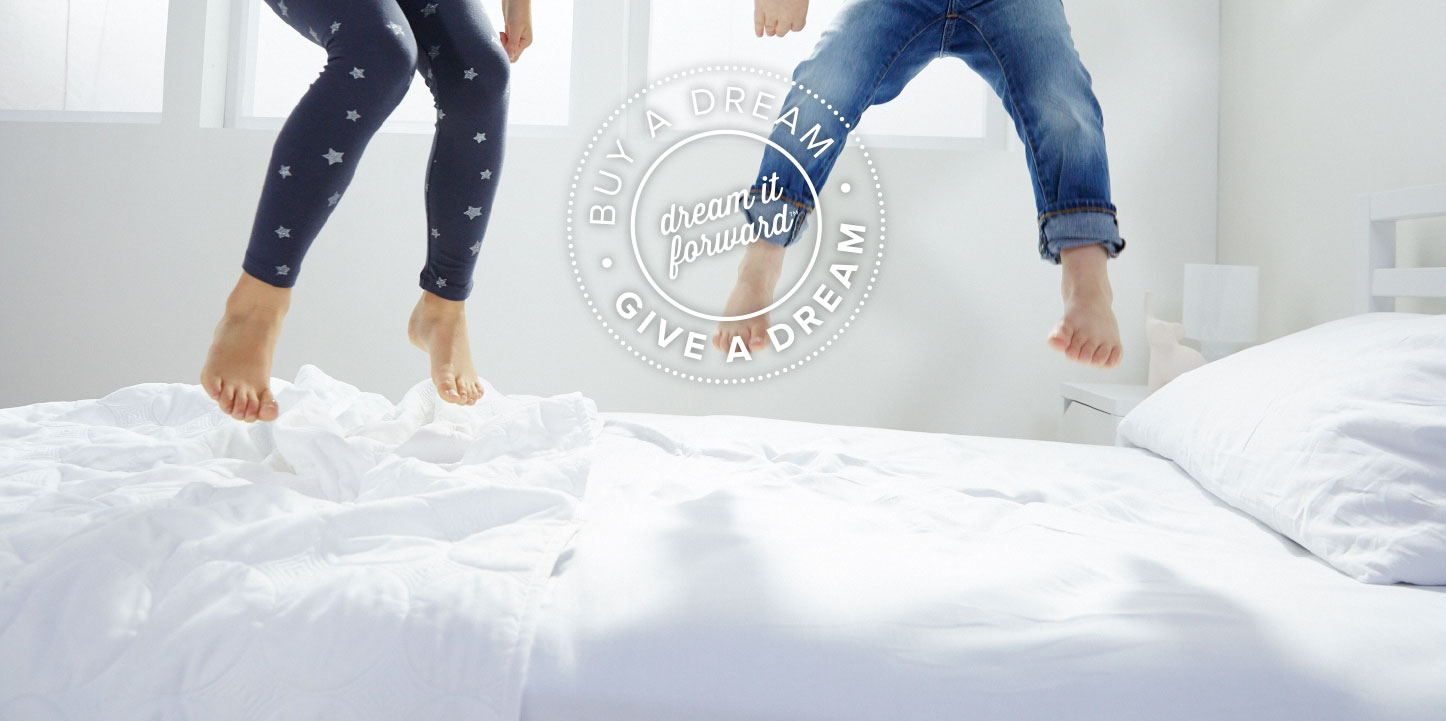
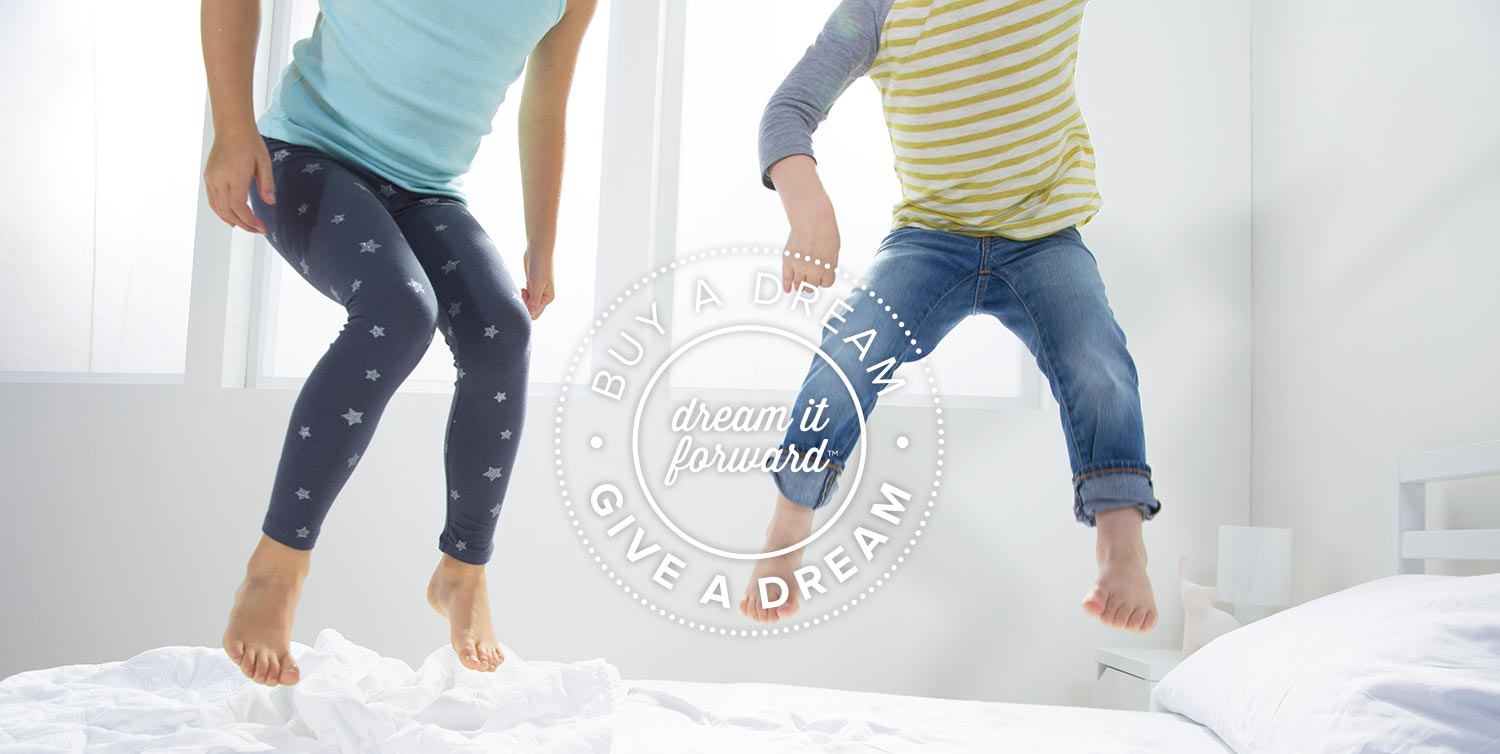
new image bed jumping kids image on shop page. also added code and css to make pinterest-friendly images on home and shop.

diff --git a/themes/the-dream-bed/css/custom.css b/themes/the-dream-bed/css/custom.css
@@ -141,6 +141,19 @@ input[type="file"] > input[type="button"]::-moz-focus-inner {
 	z-index: 1000;
 }
 
+/* pinterest images */
+
+.pin {
+	position: absolute !important;
+	clip: rect(1px 1px 1px 1px); /* IE6, IE7 */
+	clip: rect(1px, 1px, 1px, 1px);
+	padding: 0 !important;
+	border: 0 !important;
+	height: 1px !important; 
+	width: 1px !important; 
+	overflow: hidden;
+}
+
 /* begin carousel customization */
 
 .slider-size {
@@ -590,7 +603,7 @@ input[type="file"] > input[type="button"]::-moz-focus-inner {
 .jump-on-bed {
 	height: 534px;
 	background-image: url(../images/photos/kids-jumping-on-dream-bed.jpg);
-	background-position: top center;	
+	background-position: bottom center;	
 	position: relative; 
 	width: 100%;
 	padding: 0;

diff --git a/themes/the-dream-bed/page-home.php b/themes/the-dream-bed/page-home.php
@@ -6,6 +6,7 @@
 	<div class="main-text">
 		<h1>Free shipping and a no nightmare guarantee</h1>
 		<div><a href="<?php bloginfo('url'); ?>/shop/" class="btn btn-dream btn-lg" role="button">Shop Now</a></div>
+		<img class="pin" src="<?php bloginfo("template_url"); ?>/images/photos/feet-hanging-off-bed-detail.jpg" data-pin-description="The Dream Bed: Free shipping and a no nightmare guarantee." alt="">
 	</div>
 </div>
 
@@ -40,6 +41,7 @@
 									<h1><?php echo $title; ?></h1> 
 									<h2><?php echo $desc; ?></h2>
 									<p><a href="<?php echo $link; ?>" class="btn btn-dream btn-lg" role="button"><?php echo $btn_title; ?></a></p>
+									<img class="pin" src="<?php echo $img; ?>" data-pin-description="The Dream Bed: 180 night in home trial, free delivery, two options offering optimum support & comfort." alt="">
 								</div>
 							</div>
 						</div>
@@ -95,6 +97,7 @@ jQuery(document).ready(function($){
 					<h2>Free 2-day <br>
 						delivery!</h2>
 					<p><a href="<?php bloginfo('url'); ?>/shop" class="btn btn-dream" role="button">Shop Now</a></p>
+					<img class="pin" src="<?php bloginfo("template_url"); ?>/images/photos/blue-box-on-stoop.jpg" data-pin-description="The Dream Bed: Free two day delivery, right to your door!" alt="">
 				</div>
 			</div>
 			<div class="col-sm-6 alt-side-image home-middle2">
@@ -102,6 +105,7 @@ jQuery(document).ready(function($){
 					<h2>No nightmare<br>
 						180 night guarantee</h2>
 					<p><a href="<?php bloginfo('url'); ?>/design" class="btn btn-dream" role="button">See Design</a></p>
+					<img class="pin" src="<?php bloginfo("template_url"); ?>/images/photos/girl-on-pink-bed.jpg" data-pin-description="The Dream Bed: The mattress that's designed for optimal support, constant comfort, and an unobtrusive footprint." alt="">
 				</div>
 			</div>
 		</div>
@@ -112,7 +116,7 @@ jQuery(document).ready(function($){
 		<div class="row">
 			<div class="col-sm-12 center-block text-center home-bed-options">
 				<h2>The Dream Bed comes in two dreamy choices</h2>
-				<p><img src="<?php bloginfo("template_url"); ?>/images/photos/two-dreamy-options-man.jpg" alt="A gentleman demonstrates the difficulty of choosing between the two Dream Bed options." class="img-responsive center-block"></p>
+				<p><img src="<?php bloginfo("template_url"); ?>/images/photos/two-dreamy-options-man.jpg" alt="Two dreamy mattresses in foam, latex and memory foam." data-pin-description="The Dream Bed: Two dreamy mattresses in foam, latex and memory foam." class="img-responsive center-block"></p>
 				<div class="center-block hidden-xs"> 
 					<a href="<?php bloginfo('url'); ?>/shop/" class="btn btn-dream" role="button">Shop The Dream Bed</a>
 				</div>
@@ -130,11 +134,11 @@ jQuery(document).ready(function($){
 			<div class="col-sm-8 col-sm-offset-2 col-xs-12">
 				<h1>For every Dream Bed purchased a bed is donated to someone in need. #dreamitforward</h1>
 				<div><a href="<?php bloginfo('url'); ?>/giving/" class="btn btn-dream btn-lg" role="button">See How We Give</a></div>
+				<img class="pin" src="<?php bloginfo("template_url"); ?>/images/photos/dream-it-fwd-mattress-delivery.jpg" data-pin-description="The Dream Bed: For every Dream Bed purchased a bed is donated to someone in need. #dreamitforward" alt="">
 			</div>
 		</div>
 	</div>
 </div>
-
 <div class="container">
 	<div class="row">
 		<div class="same">
@@ -161,7 +165,6 @@ jQuery(document).ready(function($){
 		</div>
 	</div>
 </div>
-
+<img class="pin" src="<?php bloginfo("template_url"); ?>/images/photos/girl-crawling-in-box-with-dream-pillow.jpg" data-pin-description="The Dream Bed: Unbox a better tomorrow with our giving program." alt="">
 </div>
-
 <?php get_footer(); ?>

diff --git a/themes/the-dream-bed/woocommerce/archive-product.php b/themes/the-dream-bed/woocommerce/archive-product.php
@@ -5,6 +5,7 @@
 		<div class="row">
 			<div class="col-sm-8 col-sm-offset-2 col-xs-12">
 				<h1>Two dreamy choices</h1>
+				<img class="pin" src="<?php bloginfo("template_url"); ?>/images/photos/two-dreamy-options-man.jpg" data-pin-description="The Dream Bed: Two dreamy mattresses in foam, latex and memory foam." alt="">
 			</div>
 		</div>
 	</div>
@@ -62,7 +63,7 @@ if ($product_query->have_posts()) {
 					
 				</div>
 				<div class="product-image-cta">
-					<a href="'. $link .'"><img src="' . $img_url .'" class="product-img"></a>
+					<a href="'. $link .'"><img src="' . $img_url .'" class="product-img" alt="'. $title .'" data-pin-description="The Dream Bed: '. $title .'"></a>
 					<div class="product-cta"><a href="'. $link .'" class="btn btn-dream" role="button">Shop '. $title .'</a></div>
 				</div>
 			  </div></div>';
@@ -85,6 +86,7 @@ wp_reset_postdata();
 <div class="jump-on-bed">
 	<div class="jump-on-bed-cta">
 		<a href="<?php bloginfo('url'); ?>/giving" class="btn btn-dream" role="button">Learn More</a>
+		<img class="pin" src="<?php bloginfo("template_url"); ?>/images/photos/kids-jumping-on-dream-bed.jpg" data-pin-description="The Dream Bed: Buy a dream, give a dream. #dreamitforward" alt="">
 	</div>
 </div>
 <div class="container">
@@ -92,6 +94,7 @@ wp_reset_postdata();
 		<div class="same">
 			<div class="col-sm-4 home-review-box">
 				<div class="inner">
+					<img class="pin" src="<?php bloginfo("template_url"); ?>/images/photos/feet-hanging-off-bed-detail.jpg" data-pin-description="The Dream Bed: A better bed for everyone." alt="">
 					<p class="fivestars"><img src="<?php bloginfo("template_url"); ?>/images/five-stars.svg" width="155" height="25" alt="5 stars reviews!"></p>
 					<h3>A better bed for everyone</h3>
 					<p class="mattress-action"><a href="<?php bloginfo('url'); ?>/reviews" class="btn btn-dream" role="button">Read The Reviews</a></p>
@@ -106,6 +109,7 @@ wp_reset_postdata();
 			</div>
 			<div class="col-sm-4 home-donation-box">
 				<div class="inner">
+					<img class="pin" src="<?php bloginfo("template_url"); ?>/images/photos/girl-crawling-in-box-with-dream-pillow.jpg" data-pin-description="The Dream Bed: Unbox a better tomorrow with our giving program." alt="">
 					<h3>Unbox a better tomorrow</h3>
 					<p class="mattress-action"><a href="<?php bloginfo('url'); ?>/giving" class="btn btn-dream" role="button">See How We Give</a></p>
 				</div>
